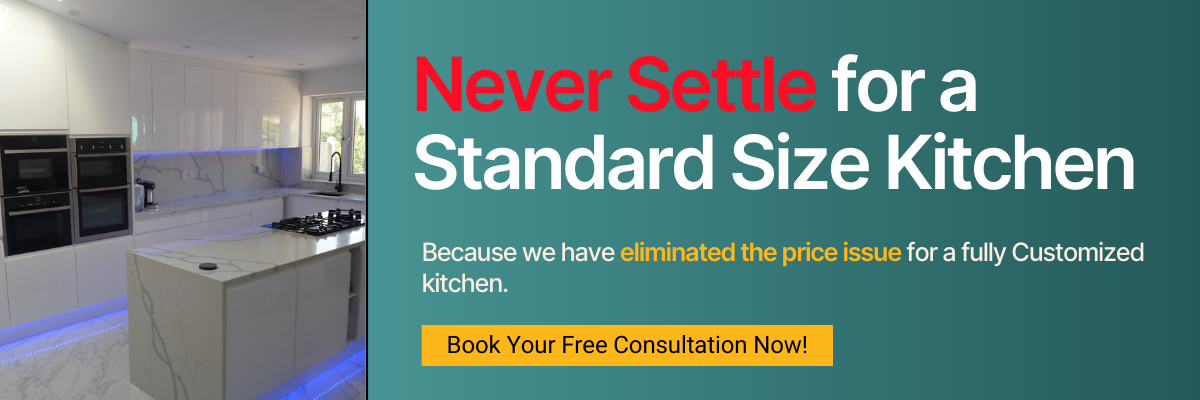
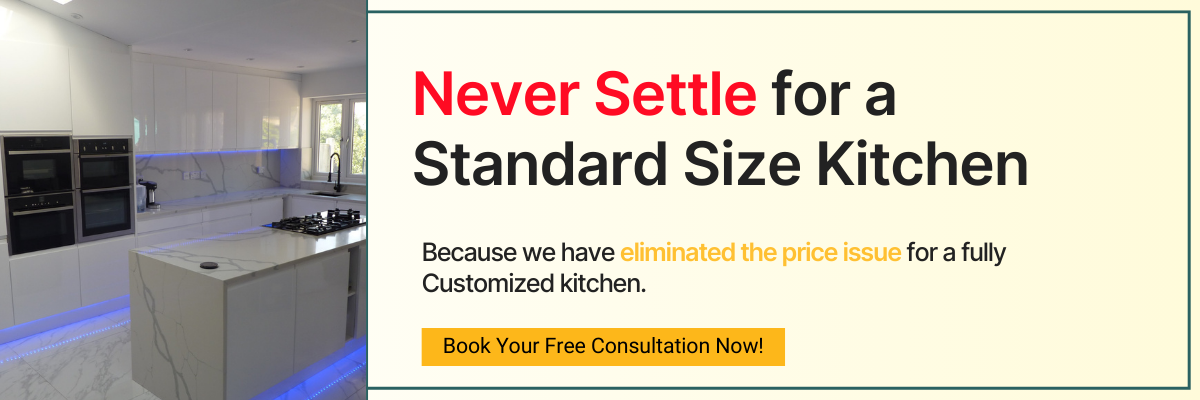
changed content of max storage and door replacement

diff --git a/resources/views/frontend/max-storage.blade.php b/resources/views/frontend/max-storage.blade.php
@@ -7,6 +7,73 @@
     <link rel="stylesheet" href="styles.css">
     <link rel="stylesheet" href="https://stackpath.bootstrapcdn.com/bootstrap/4.3.1/css/bootstrap.min.css">
     <style>
+
+.step-icon {
+            background-color: #f9f9f9;
+            border-radius: 50%;
+            width: 80px;
+            height: 80px;
+            display: flex;
+            align-items: center;
+            justify-content: center;
+            margin: 0 auto;
+        }
+        
+        .step-number {
+            font-size: 1.5rem;
+            font-weight: 600;
+            margin: 1rem 0;
+        }
+        
+        .step-title {
+            color: #2B5A5E;
+            font-weight: 600;
+            margin-bottom: 1rem;
+            text-transform: uppercase;
+        }
+        
+        .step-description {
+            text-align: center;
+            font-size: 0.9rem;
+            color: #444;
+            margin: 0 auto;
+        }
+        @media(max-width:576px)
+        {
+            .step-number,.step-icon
+            {
+                font-size: 26px;
+            }
+            .step-title
+            {
+                font-size:30px;
+            }
+            .step-description
+            {
+                font-size: 14px !important;
+            }
+            
+        }
+        .arrow-line {
+            height: 2px;
+            width: 100%;
+            background-color: #2B5A5E;
+            position: relative;
+        }
+        
+        .arrow-line:after {
+            content: "";
+            position: absolute;
+            right: 0;
+            top: -5px;
+            width: 0;
+            height: 0;
+            border-left: 8px solid #2B5A5E;
+            border-top: 6px solid transparent;
+            border-bottom: 6px solid transparent;
+        }
+       
+
         /* Responsive Line Styling */
 #line1,#line2,#line3 {
     /* Base styles */
@@ -533,7 +600,8 @@
 
             <div class="col-12 my-5 p-0">
                 <a class="w-100 p-0 btn" data-bs-toggle="modal" data-bs-target="#newsletterModalMax">
-                <img class=" p-0 w-100 rounded img-fluid d-none d-md-block" src="{{ asset('images/max-banner.png') }}"/>
+                {{-- <img class=" p-0 w-100 rounded img-fluid d-none d-md-block" src="{{ asset('images/max-banner.png') }}"/> --}}
+                <img class=" p-0 w-100 rounded img-fluid d-none d-md-block" src="{{ asset('images/max-storage-after-hero.png') }}"/>
                 
                 <img class="w-100 img-fluid d-md-none mt-2" src="{{ asset('images/max-banner-mob.png') }}"/>
                 </a>
@@ -718,7 +786,51 @@
 <div class="container-fluid py-3" style="background-color:#f2f4f5">
     <div class="container">
         <div class="row">
-        <div class="col-lg-4 col-12 mb-3 mb-sm-0">
+
+             <!-- Step 1 -->
+             <div class="col-md-4 col-lg-3 text-center mb-4 mb-lg-0">
+                <div class="step-icon">
+                    <i class="text-warning fs-1 fa-solid fa-phone"></i>
+                </div>
+                <div class="step-number">Step 01</div>
+                <h4 class="step-title">You Contact Us</h4>
+                <p class="step-description px-3">Share your vision, we’ll listen to your ideas, needs, and lifestyle to understand your dream kitchen</p>
+           
+            </div>
+            
+            <!-- Arrow 1 - Hidden on screens smaller than large -->
+            <div class="col-lg-1 d-none d-lg-flex justify-content-center align-items-center">
+                <div class="arrow-line w-100"></div>
+            </div>
+            
+            <!-- Step 2 -->
+            <div class="col-md-4 col-lg-3 text-center mb-4 mb-lg-0">
+                <div class="step-icon">
+                    <i class="text-warning fs-1 fa-solid fa-handshake"></i>
+                </div>
+                <div class="step-number">Step 02</div>
+                <h4 class="step-title">We handle everything for you</h4>
+                <p class="step-description px-3">Our experts create a personalized design for you, including layouts, materials, and colors etc.</p>
+            </div>
+            
+            <!-- Arrow 2 - Hidden on screens smaller than large -->
+            <div class="col-lg-1 d-none d-lg-flex justify-content-center align-items-center">
+                <div class="arrow-line w-100"></div>
+            </div>
+            
+            <!-- Step 3 -->
+            <div class="col-md-4 col-lg-3 text-center">
+                <div class="step-icon">
+                    <i class="text-warning fa-solid fa-kitchen-set"></i>
+                </div>
+                <div class="step-number">Step 03</div>
+                <h4 class="step-title">You enjoy your perfect kitchen</h4>
+                <p class="step-description px-3">Our skilled craftsmen build and install your custom kitchen. Ensuring a perfect fit and lasting beauty.</p>
+            </div>
+        </div>
+        
+
+        {{-- <div class="col-lg-4 col-12 mb-3 mb-sm-0">
              @include('frontend.card', ['icon_class'=>'fa-solid fa-phone','number'=>'01', 'title'=>'You Contact Us','description'=>"Share your vision, we’ll listen to your ideas, needs, and lifestyle to understand your dream kitchen"])
         </div>
         <div class="col-lg-4 col-12 mb-3 mb-sm-0">
@@ -726,7 +838,7 @@
        </div>
        <div class="col-lg-4 col-12 mb-3 mb-sm-0">
         @include('frontend.card', ['icon_class'=>'fa-solid fa-kitchen-set','number'=>'03', 'title'=>'You enjoy your perfect kitchen','description'=>"Our skilled craftsmen build and install your custom kitchen. Ensuring a perfect fit and lasting beauty."])
-   </div>
+      </div> --}}
     </div>
 
 {{-- <div class="container-fluid py-3" style="background-color:#f2f4f5">
@@ -1054,11 +1166,12 @@
 
     <section class="conatiner py-2 text-center mb-4">
         <div class="row">
-        <div class="col-12 p-0">
+        <div class="col-12 ">
             <a class="w-100 btn" data-bs-toggle="modal" data-bs-target="#exampleModal">
-            <img class="rounded img-fluid w-100 d-none d-md-block" src="{{ asset('images/never-settle.png') }}"/>
+            {{-- <img class="rounded img-fluid w-100 d-none d-md-block" src="{{ asset('images/never-settle.png') }}"/> --}}
+            <img class="rounded img-fluid w-100" src="{{ asset('images/never-settle.png') }}"/>
             
-            <img class="rounded shadow-lg img-fluid w-100 ol-12  d-md-none" src="{{ asset('images/never-settle-mobile.png') }}"/>
+            {{-- <img class="rounded shadow-lg img-fluid w-100 ol-12  d-md-none" src="{{ asset('images/never-settle-mobile.png') }}"/> --}}
             </a>
         </div>
     </div>

diff --git a/resources/views/frontend/shop/orderkitchen/doors_replacement.blade.php b/resources/views/frontend/shop/orderkitchen/doors_replacement.blade.php
@@ -385,7 +385,22 @@
             font-weight: 600;
             margin: 1rem 0;
         }
-        
+        @media(max-width:576px)
+        {
+            .step-number,.step-icon
+            {
+                font-size: 26px;
+            }
+            .step-title
+            {
+                font-size:30px;
+            }
+            .step-description
+            {
+                font-size: 14px !important;
+            }
+            
+        }
         .step-title {
             color: #2B5A5E;
             font-weight: 600;
@@ -687,7 +702,7 @@
         
         <div class="hero-content">
             <h5 class="text-center text-white " style="font-size:14px; letter-spacing:5px;font-weight:bold">BUY KITCHEN  ONLINE</h5>
-            <h1 class="text-white fw-bold">DOOR REPLACEMENT <span style="color:#ffe000"> SERVICE</span></h1>
+            <h1 class="text-white fw-bold mb-5">DOOR REPLACEMENT <span style="color:#ffe000"> SERVICE</span></h1>
             <h2 class="text-white mb-4 yell">2-3 Months of full kitchen remodel nightmare or <br> <span style="font-size:32px;color:#ffe000;font-weight:700">
                 New CABINET Doors IN JUST 2-3 Days?</span></h2>
             
@@ -763,11 +778,11 @@
                         <a href="{{ route('ordercomponentbyname', 'doors') }}" class="btn bg-orange px-1 fw-bold text-uppercase rounded-0 " style="font-size:14px;">  Order a Sample of your choice NOW!</a>
                     </div>
                     <div class="p-0 mb-3 mb-xl-0 col-12 col-xl-4">
-                    {{-- <img class="w-100 object-fit-cover rounded border border-warning" src="https://bkonline.uk/public/imgs/products/Cartmel-Cashmere-Flat-Door-A1720452961_668c0761d6f16.jpg"  class="img-fluid"  alt="Modern Kitchen" 
+                     <img class="w-100 object-fit-cover rounded border border-warning" src="https://bkonline.uk/public/imgs/products/Cartmel-Cashmere-Flat-Door-A1720452961_668c0761d6f16.jpg"  class="img-fluid"  alt="Modern Kitchen" 
                         style="width: 300px; height: 400px; object-fit: cover;">
-                    --}}
-                    <img class="w-100 object-fit-cover rounded border border-warning" src="{{ asset('images/door-cabinets.png') }}"  class="img-fluid"  alt="Modern Kitchen" 
-                        style="width: 300px; height: 400px; object-fit: cover;">
+                    
+                    <!-- <img class="w-100 object-fit-cover rounded border border-warning" src="{{ asset('images/door-cabinets.png') }}"  class="img-fluid"  alt="Modern Kitchen" 
+                        style="width: 300px; height: 400px; object-fit: cover;"> -->
                    
                     </div>
                 </div>
@@ -819,7 +834,7 @@
         </div>
         {{-- <div class="row flex-column my-5 align-items-center justify-content-center">
             <div class="col-sm-5">
-            <h4 class="text-center">Benefit from our limited time offer and get a FREE QUOTE for Kitchen Door Replacement</h4>
+            <h4 class="text-center mt-5">Benefit from our limited time offer and get a FREE QUOTE for Kitchen Door Replacement</h4>
             </div>
             <div class="col-12 col-sm-3">
                 <button class="w-100 btn bg-orange px-4 text-uppercase rounded-0" data-bs-toggle="modal" data-bs-target="#exampleModal">book your FREE CONSULTATION NOW!</button>
@@ -844,6 +859,7 @@
                     <div class="step-number">Step 01</div>
                     <h4 class="step-title">GET IN TOUCH</h4>
                     <p class="step-description px-3">Provide your contact information so we can schedule a convenient time to chat with you.</p>
+               
                 </div>
                 
                 <!-- Arrow 1 - Hidden on screens smaller than large -->
@@ -877,10 +893,10 @@
                 </div>
             </div>
             
-            <p class="benefit-text fs-4">Benefit from our limited time offer and get a Free Quote for Door Replacement</p>
+            <p class="benefit-text mb-2 mt-5 fs-4">Benefit from our limited time offer and get a Free Quote for Door Replacement</p>
             
             <div class="text-center">
-                <a href="#" class="btn btn-consultation py-3 px-4 my-3 w-100" style="max-width: 500px;" data-bs-toggle="modal" data-bs-target="#exampleModal">BOOK YOUR FREE CONSULTATION NOW!</a>
+                <a href="#" class="btn btn-consultation py-3 px-4 w-100" style="max-width: 500px;" data-bs-toggle="modal" data-bs-target="#exampleModal">BOOK YOUR FREE CONSULTATION NOW!</a>
             </div>
         </div>
         </div>
